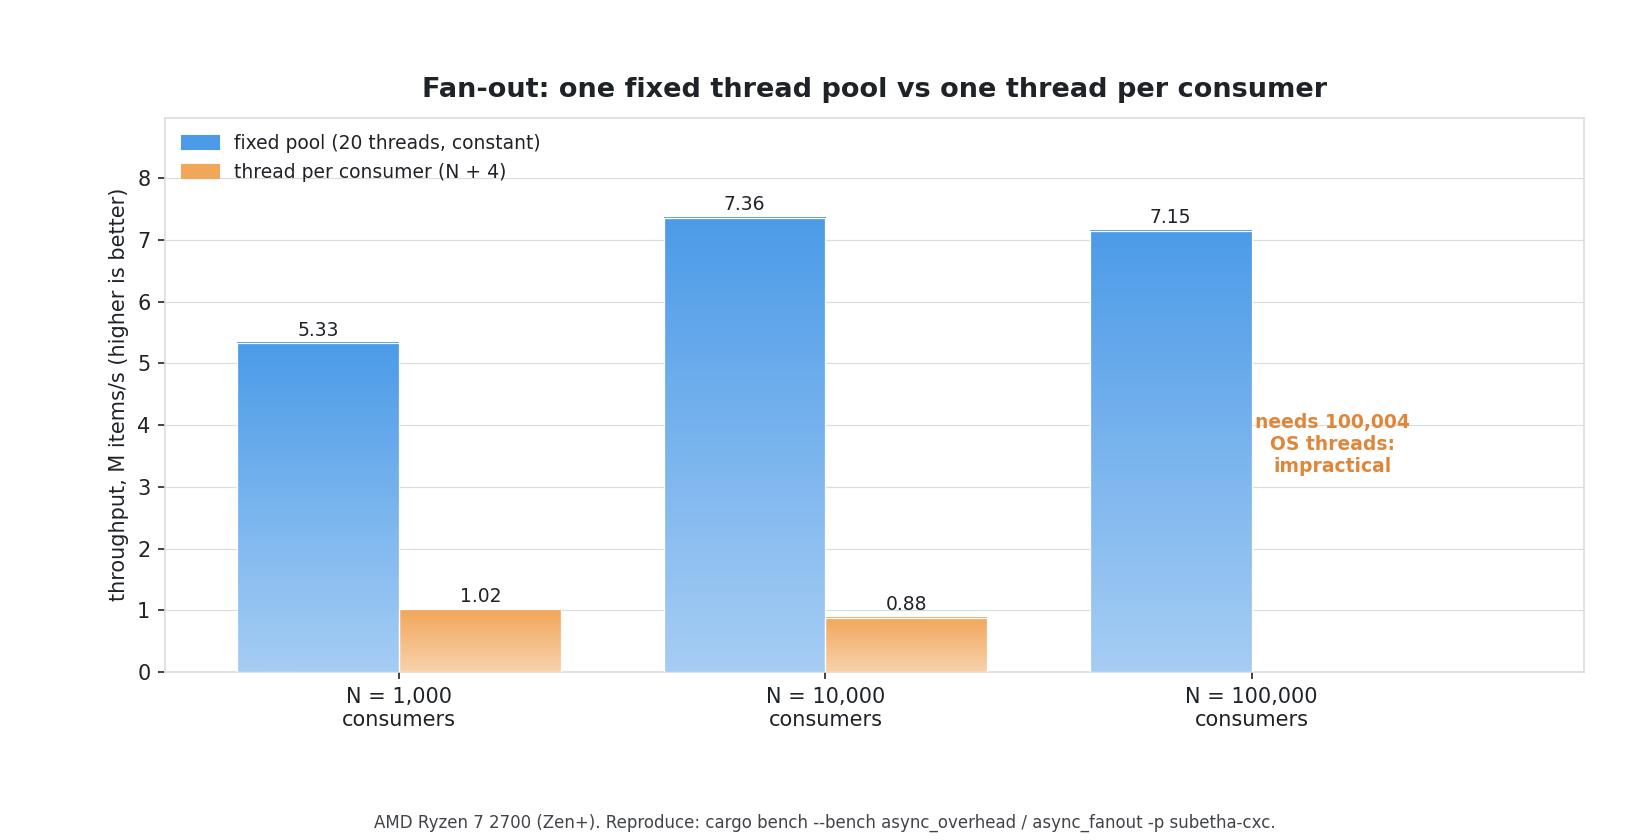
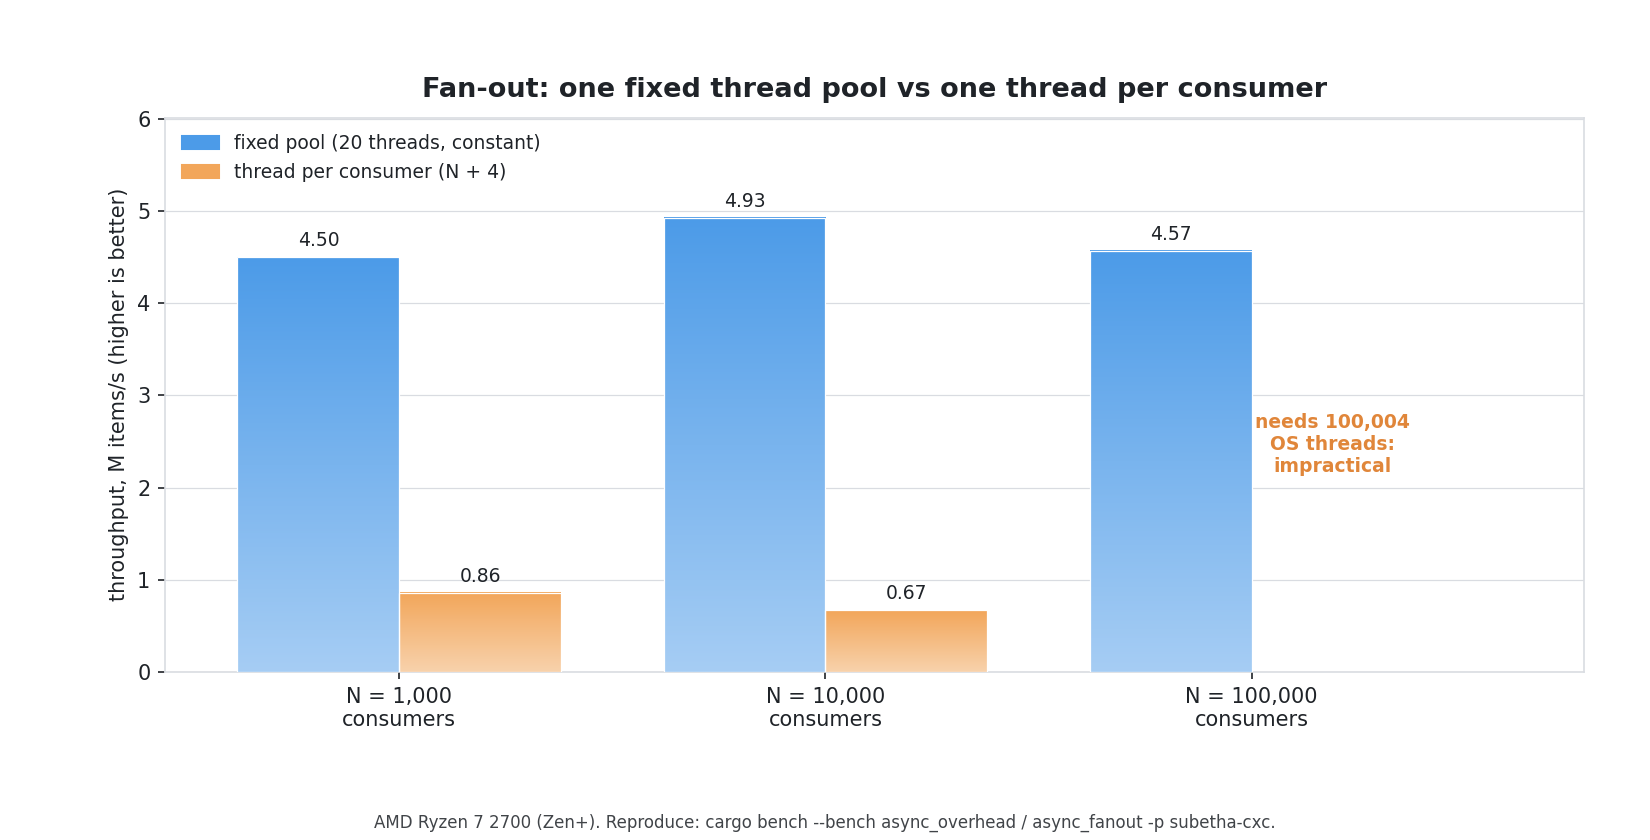
docs: re-measure the frame-ring and async tables on the machine they name

diff --git a/wiki/content/docs/reference/subetha-cxc/rings/frame-ring.md b/wiki/content/docs/reference/subetha-cxc/rings/frame-ring.md
@@ -53,9 +53,14 @@ shape (SPSC / MPSC / MPMC / Vyukov), with a producer override, see the
   level (unlike the typed `SharedRingSpsc` pair).
 - **`slot_size >= 16`** (the descriptor header is 8 bytes; the offset
   form needs 8 more). Inline budget is `slot_size - 8`.
-- **`capacity` and `region_bytes` are powers of two.** A region
-  payload is capped at `region_bytes / 2` so a skip-pad on an empty
-  region can never report a false `Full`.
+- **`capacity` and `region_bytes` are powers of two**, each at least 2.
+  A region payload is capped at `region_bytes / 2` so a skip-pad on an
+  empty region can never report a false `Full`.
+- **The geometry is validated, not asserted.** Every constructor runs
+  the checks above and returns `Err(RingError::LayoutMismatch)` on a
+  bad one. This is the exception in the ring family - `SharedRing` and
+  `SpscRingCore` assert on a non-pow2 capacity - so `FrameRing` is the
+  one you can hand a number straight from configuration.
 - **In-process anonymous** (`create_anon`), **file-backed**
   (`create` / `open`), or **named shared memory**
   (`create_from_shm` / `open_from_shm`) - same byte layout, same
@@ -69,10 +74,15 @@ shape (SPSC / MPSC / MPMC / Vyukov), with a producer override, see the
 | `send_as(payload, LayoutHint::ForceInline)` | Inline; `Err(PayloadTooLarge)` if over budget. |
 | `send_as(payload, LayoutHint::ForceOffset)` | Always the region. |
 | `recv_into(&mut Vec<u8>)` | Clears and fills the buffer; reads the region and frees nothing (the region tail follows FIFO). Returns the `FrameClass`. |
-| `recv()` | Same as `recv_into` into a fresh `Vec`. |
+| `recv()` | Same as `recv_into` into a fresh `Vec`, and returns that `Vec` - the class is read to recover the bytes but not handed back. Use `recv_into` when you want it. |
 
 The consumer never overrides the layout: it reads the class the
 producer wrote, because it cannot know the layout otherwise.
+
+`capacity()`, `slot_size()`, `region_bytes()` and `inline_budget()`
+report the constructed geometry. `inline_budget()` is the one worth
+reading at runtime: it is what `send` compares against to choose a
+layout, so it is the threshold a caller sizes its records around.
 
 ## Worked example
 
@@ -105,17 +115,34 @@ region (the always-arena baseline); `raw.spsc` is the fixed 64-byte
 
 | Payload | frame.auto | class | frame.offset | raw.spsc | auto vs offset |
 |--------:|-----------:|:------|-------------:|---------:|---------------:|
-| 16 B | 16.9 ns | inline | 27.0 ns | 14.4 ns | 1.60x |
-| 32 B | 18.8 ns | inline | 31.8 ns | 8.9 ns | 1.69x |
-| 56 B | 29.7 ns | inline | 33.7 ns | 13.5 ns | 1.13x |
-| 64 B | 35.8 ns | offset | 37.0 ns | - | 1.03x |
-| 1024 B | 152.9 ns | offset | 121.1 ns | - | ~1.0x |
+| 8 B | 9.3 ns | inline | 14.1 ns | 9.2 ns | 1.52x |
+| 16 B | 9.0 ns | inline | 14.6 ns | 9.7 ns | 1.62x |
+| 32 B | 9.0 ns | inline | 16.2 ns | 6.4 ns | 1.79x |
+| 48 B | 15.9 ns | inline | 19.8 ns | 8.6 ns | 1.25x |
+| 56 B | 15.7 ns | inline | 20.4 ns | 8.6 ns | 1.30x |
+| 64 B | 20.8 ns | offset | 21.2 ns | 6.8 ns | 1.02x |
+| 128 B | 23.0 ns | offset | 23.0 ns | - | 1.00x |
+| 256 B | 32.9 ns | offset | 32.4 ns | - | 0.98x |
+| 512 B | 52.8 ns | offset | 48.1 ns | - | 0.91x |
+| 1024 B | 71.8 ns | offset | 70.7 ns | - | 0.98x |
+| 4096 B | 224.4 ns | offset | 206.4 ns | - | 0.92x |
 
-The inline fast path beats the always-region path 1.13-1.69x for
-records up to the 56-byte inline budget; at 64 bytes and above both
-take the region path and tie (the spread there is run-to-run noise on
-the identical path). The frame header costs a few ns over the rawest
-fixed slot in exchange for carrying any size.
+Read the shape, not the absolute numbers: consecutive runs on the same
+machine move these by a factor approaching two, and the table is one
+captured sweep.
+
+The inline fast path beats the always-region path 1.25-1.79x for records
+up to the 56-byte inline budget - that band is the whole point of the
+class tag. At 64 bytes and above both paths are the region path, and
+they tie within a few percent; `frame.auto` trails very slightly at 512
+B and 4096 B, which is a measurement artifact of running first rather
+than an extra cost, since past the budget `Auto` and `ForceOffset`
+execute the same code after one length comparison.
+
+`raw.spsc` stops at 64 B because that is the fixed slot's whole payload,
+and it is the fastest column everywhere it appears: the frame header
+costs a few ns over the rawest fixed slot, which is what buys carrying
+any size at all.
 
 ## Known limitations
 

diff --git a/wiki/content/docs/how-to/async-paths.md b/wiki/content/docs/how-to/async-paths.md
@@ -42,13 +42,13 @@ async_overhead -p subetha-cxc`.
 
 | Convention | Round-trip | vs sync |
 |---|---|---|
-| `send` / `recv` | ~28 ns | 1.0x |
-| `send_blocking` / `recv_blocking` | ~55 ns | ~2x |
-| `send_async` / `recv_async` (on `block_on`) | ~359 ns | ~13x |
+| `send` / `recv` | ~18 ns | 1.0x |
+| `send_blocking` / `recv_blocking` | ~51 ns | ~2.8x |
+| `send_async` / `recv_async` (on `block_on`) | ~377 ns | ~21x |
 
 <picture>
   <source media="(prefers-color-scheme: dark)" srcset="/images/async_overhead-dark.png">
-  <img alt="Per-op round-trip latency on Zen+: sync ~28 ns, blocking ~55 ns, async ~359 ns" src="/images/async_overhead-light.png">
+  <img alt="Per-op round-trip latency on Zen+: sync ~18 ns, blocking ~51 ns, async ~377 ns" src="/images/async_overhead-light.png">
 </picture>
 
 The async path is an order of magnitude heavier per op. If you are
@@ -84,15 +84,15 @@ flowchart TB
 
 | Driver | N = 1,000 | N = 10,000 | N = 100,000 | OS threads |
 |---|---|---|---|---|
-| Fixed pool (async tasks) | 5.97 M items/s | 6.87 M items/s | 6.71 M items/s | 20 (constant) |
-| Thread per consumer | 0.80 M items/s | 0.89 M items/s | (needs 100,004 threads) | N + 4 |
+| Fixed pool (async tasks) | 4.50 M items/s | 4.93 M items/s | 4.57 M items/s | 20 (constant) |
+| Thread per consumer | 0.86 M items/s | 0.67 M items/s | (needs 100,004 threads) | N + 4 |
 
 <picture>
   <source media="(prefers-color-scheme: dark)" srcset="/images/async_scaling-dark.png">
   <img alt="Fan-out throughput: fixed pool holds 6-7 M items/s on 20 threads from N=1k to N=100k; thread-per-consumer stays below 1 M items/s and needs one thread per consumer" src="/images/async_scaling-light.png">
 </picture>
 
-The fixed pool holds 6-7 M items/s on a constant 20 OS threads from a
+The fixed pool holds 4.5-5 M items/s on a constant 20 OS threads from a
 thousand consumers to a hundred thousand. That 20 is
 `available_parallelism` workers (16 on the Zen+ 8-core / 16-thread part)
 plus the bench's 4 producer threads, so it tracks the machine rather
@@ -101,6 +101,10 @@ than being a tuned constant. The thread-per-consumer design sits below
 N = 10,000, and 100,004 at N = 100,000, which is the point at which it
 stops being practical; the bench does not run that last cell for the
 same reason. Same ring, same `recv()` future; only the driver differs.
+
+Both tables are one captured sweep. Repeat runs on this machine move
+the absolutes by 20-40% in either direction - the gap between the two
+drivers is the durable result, not the digits.
 
 ## Rule of thumb
 
